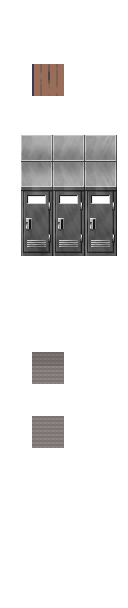
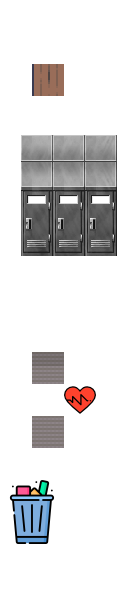
UpdateLayers

Changed region(s): [[0.0625, 0.7812, 0.4375, 0.9062], [0.5, 0.625, 0.75, 0.6875]]

diff --git a/src/scenes/TesteTiles.js b/src/scenes/TesteTiles.js
@@ -19,6 +19,7 @@ class TesteTile extends Phaser.Scene {
   sx = 0;
   mapWidth = 25;
   mapHeight = 1;
+  health;
 
   constructor() {
     super({ key: 'testeTile' })
@@ -26,6 +27,7 @@ class TesteTile extends Phaser.Scene {
   init(data) {
     this.selectedCharacter = data.character
     this.selectedEnemy = data.enemy
+    this.health = this.physics.add.staticGroup()
 
     console.log(this.selectedCharacter)
     this.fullWidth = 200
@@ -101,19 +103,33 @@ class TesteTile extends Phaser.Scene {
 
   createMap() {
 
-    const mapChao = this.make.tilemap({ key: 'map_chao', tileHeight: 32, tileWidth: 32 })
-    const tileset = mapChao.addTilesetImage('tiles');
-    const layerChao = mapChao.createLayer(0, tileset, 0, 0); // layer index, tileset, x, y
+
+    const map = this.make.tilemap({ key: "map" });
+    const tileset = map.addTilesetImage('map', "tiles");
 
 
-    const mapParede = this.make.tilemap({ key: 'map_parede', tileHeight: 32, tileWidth: 32 })
-    const tilesetParede = mapParede.addTilesetImage('tiles');
-    const layerParede = mapParede.createLayer(0, tilesetParede, 0, 0); // layer index, tileset, x, y
+    const ChaoLayer = map.createLayer("chao", tileset);
+    const TrashLayer = map.createLayer("trash", tileset);
+    const ParedeLayer = map.createLayer("parede", tileset);
+    const ArmarioLayer = map.createLayer("armario", tileset);
+    const HealthLayer = map.getObjectLayer('LifeLayer')['objects'];
 
 
-    const mapArmario = this.make.tilemap({ key: 'map_armario', tileHeight: 32, tileWidth: 32 })
-    const tilesetArmario = mapArmario.addTilesetImage('tiles');
-    const layerArmario = mapArmario.createLayer(0, tilesetArmario, 0, 0); // layer index, tileset, x, y
+
+    HealthLayer.forEach(object => {
+      let obj = this.health.create(object.x, object.y, "health");
+      obj.setScale(object.width / 32, object.height / 32);
+      obj.setOrigin(0);
+      obj.body.width = object.width;
+      obj.body.height = object.height;
+    });
+
+  }
+
+  collectLife(player, healh) {
+    healh.destroy(healh.x, healh.y); // remove the tile/coin
+    player.cura(10);
+    return false;
   }
 
   preload() {
@@ -123,6 +139,9 @@ class TesteTile extends Phaser.Scene {
     this.load.tilemapCSV('map_chao', 'cenario/definitivo_chao.csv')
     this.load.tilemapCSV('map_armario', 'cenario/definitivo_armario.csv')
     this.load.tilemapCSV('map_parede', 'cenario/definitivo_parede.csv')
+    this.load.tilemapCSV('map_life', 'cenario/definitivo_life.csv')
+    this.load.image("health", "cenario/health.png");
+    this.load.tilemapTiledJSON("map", "cenario/definitivo.json");
   }
   create() {
 
@@ -148,6 +167,8 @@ class TesteTile extends Phaser.Scene {
     this.physics.world.enableBody(this.player);
     this.physics.world.enableBody(this.enemy);
     this.player.setCollideWorldBounds(true)
+    this.player.setImmovable();
+    this.physics.add.overlap(this.player, this.health, this.collectLife, null, this)
     //--- this.physics.world.setBounds(0, 260, 800, 340)
     //this is good to use when using the zoom on the player
     this.cameras.main.startFollow(this.player, true, 0.08, 0.08);

diff --git a/src/persons/Player.js b/src/persons/Player.js
@@ -41,6 +41,11 @@ export default class Player extends Phaser.Physics.Arcade.Sprite {
       this.gameOver()
     }
   }
+
+  cura(amount) {
+    this.hp.increase(amount)
+  }
+
   update() {
     if (this.win) return;
 
@@ -59,13 +64,17 @@ export default class Player extends Phaser.Physics.Arcade.Sprite {
       this.x += speed
       this.flipX = true
       this.anims.play('walk', true);
-    } else if (this.scene.cursors.up.isDown) {
+    }
+
+    if (this.scene.cursors.up.isDown) {
       this.y -= speed
       this.anims.play('walk')
     } else if (this.scene.cursors.down.isDown) {
       this.y += speed
       this.anims.play('walk')
-    } else if (this.scene.keyA.isDown) {
+    }
+
+    if (this.scene.keyA.isDown) {
       this.keyPressed = true
       this.anims.play('kick', true);
     } else if (this.scene.keyS.isDown) {

diff --git a/src/components/healthBar.js b/src/components/healthBar.js
@@ -20,6 +20,14 @@ export default class HealthBar {
     return (this.value === 0);
   }
 
+  increase(amount) {
+    this.value += amount;
+    if (this.value > 100) {
+      this.value = 100;
+    }
+    this.draw();
+  }
+
   draw() {
     this.bar.clear();
     //  BG
